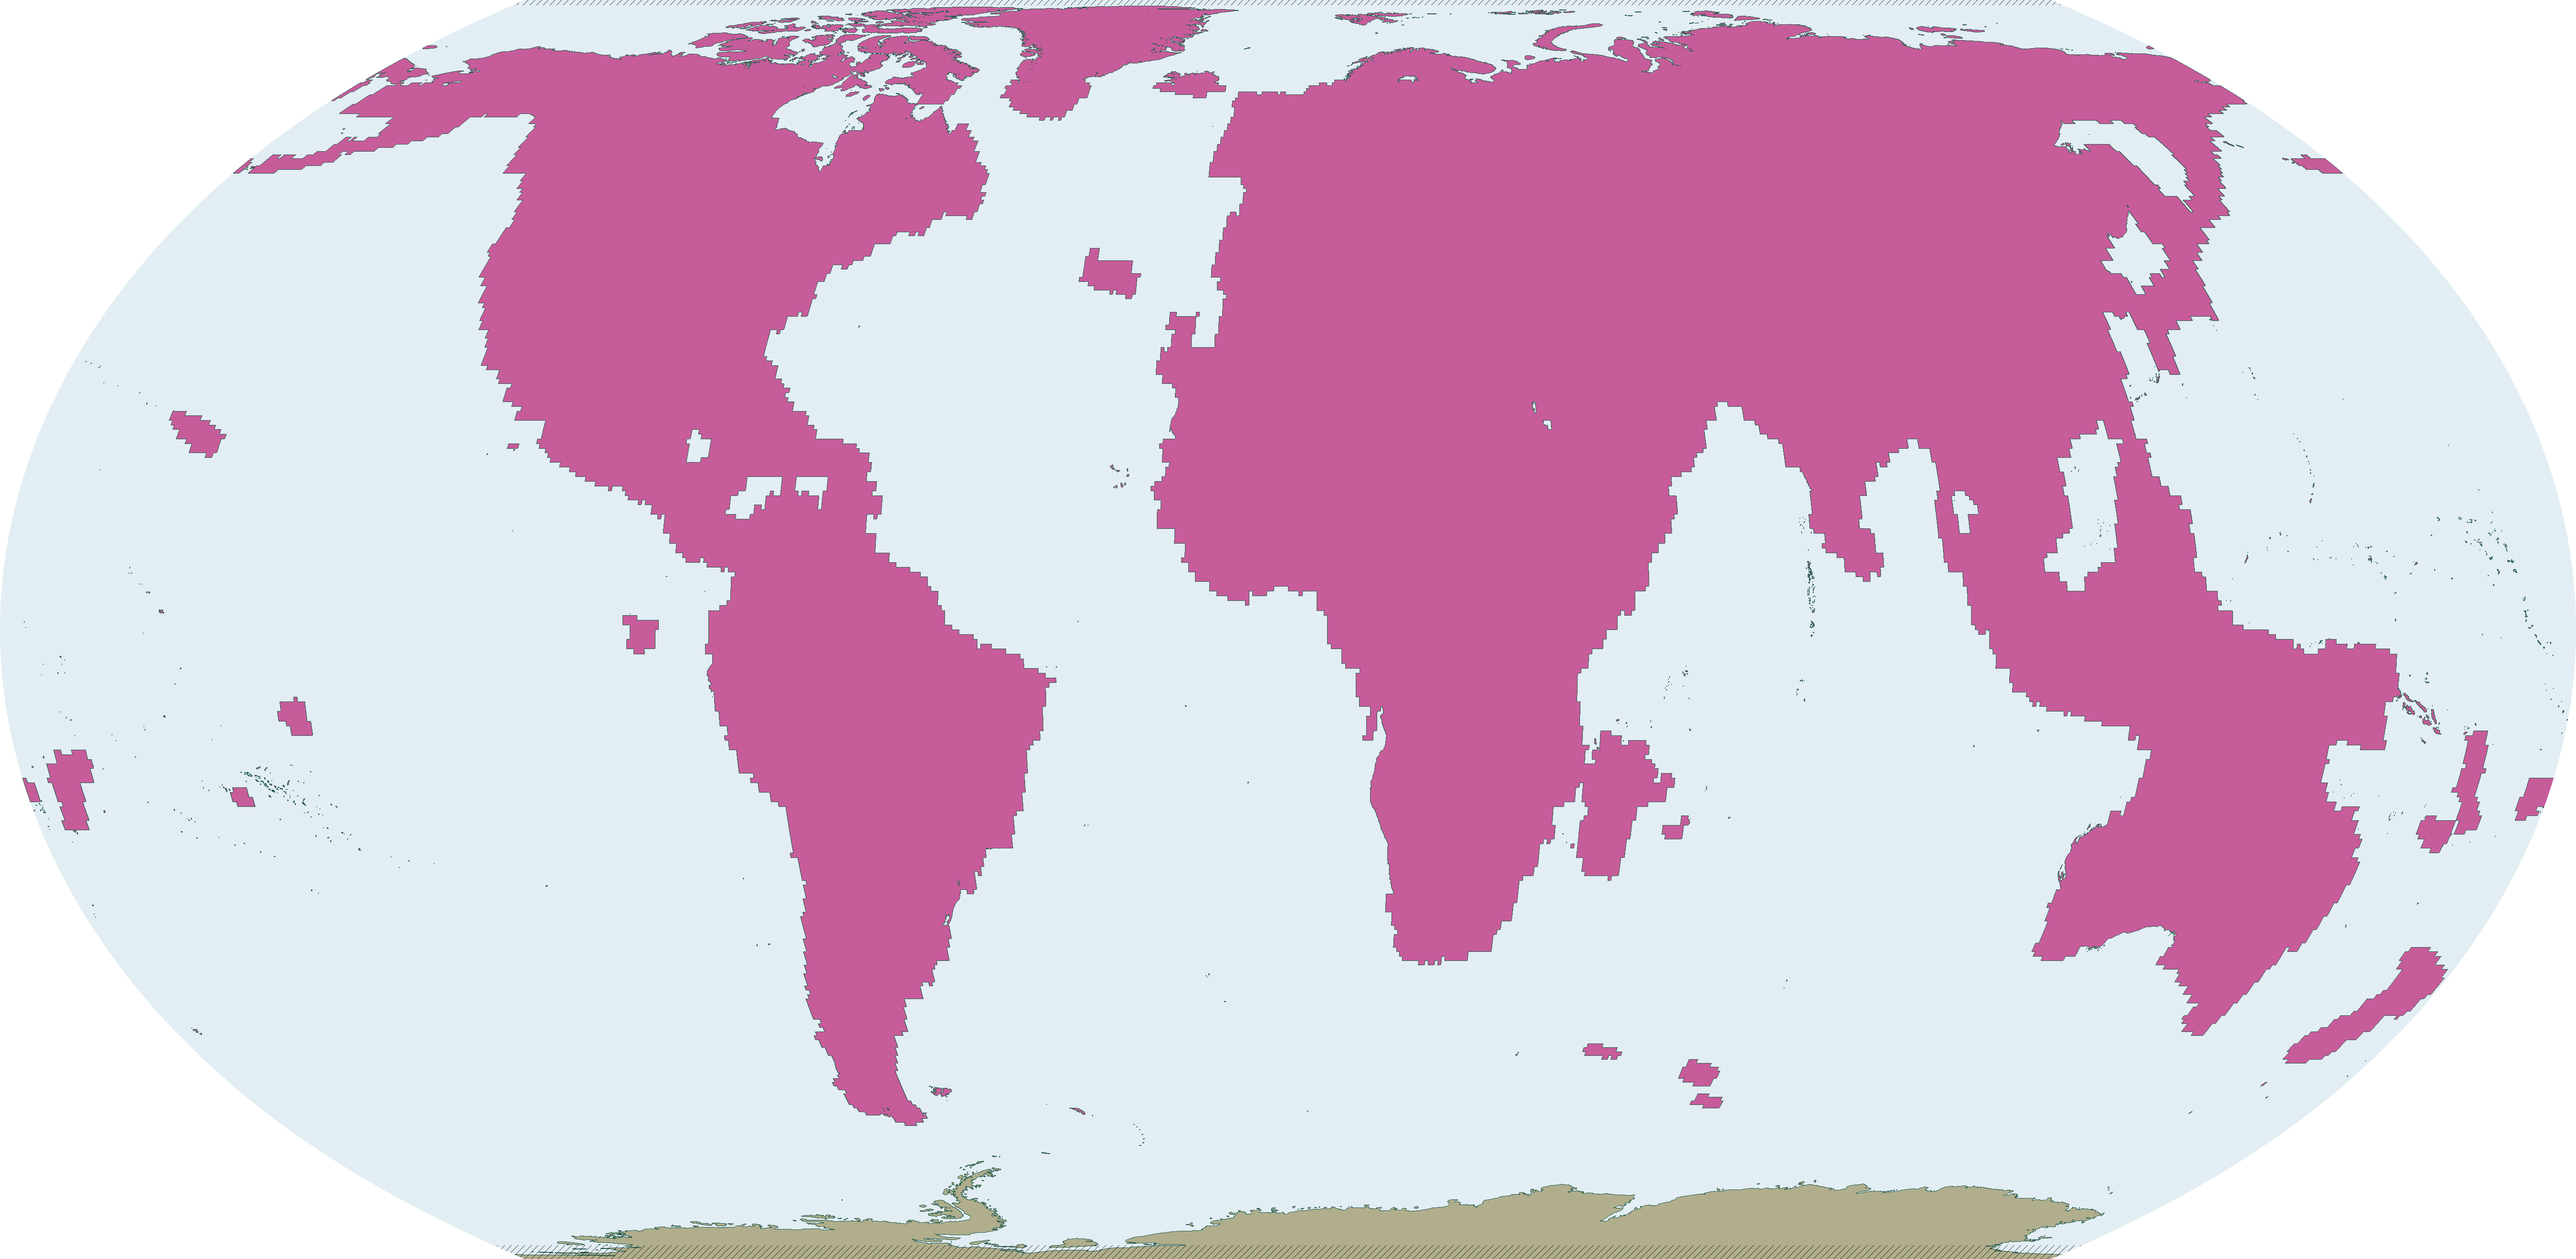
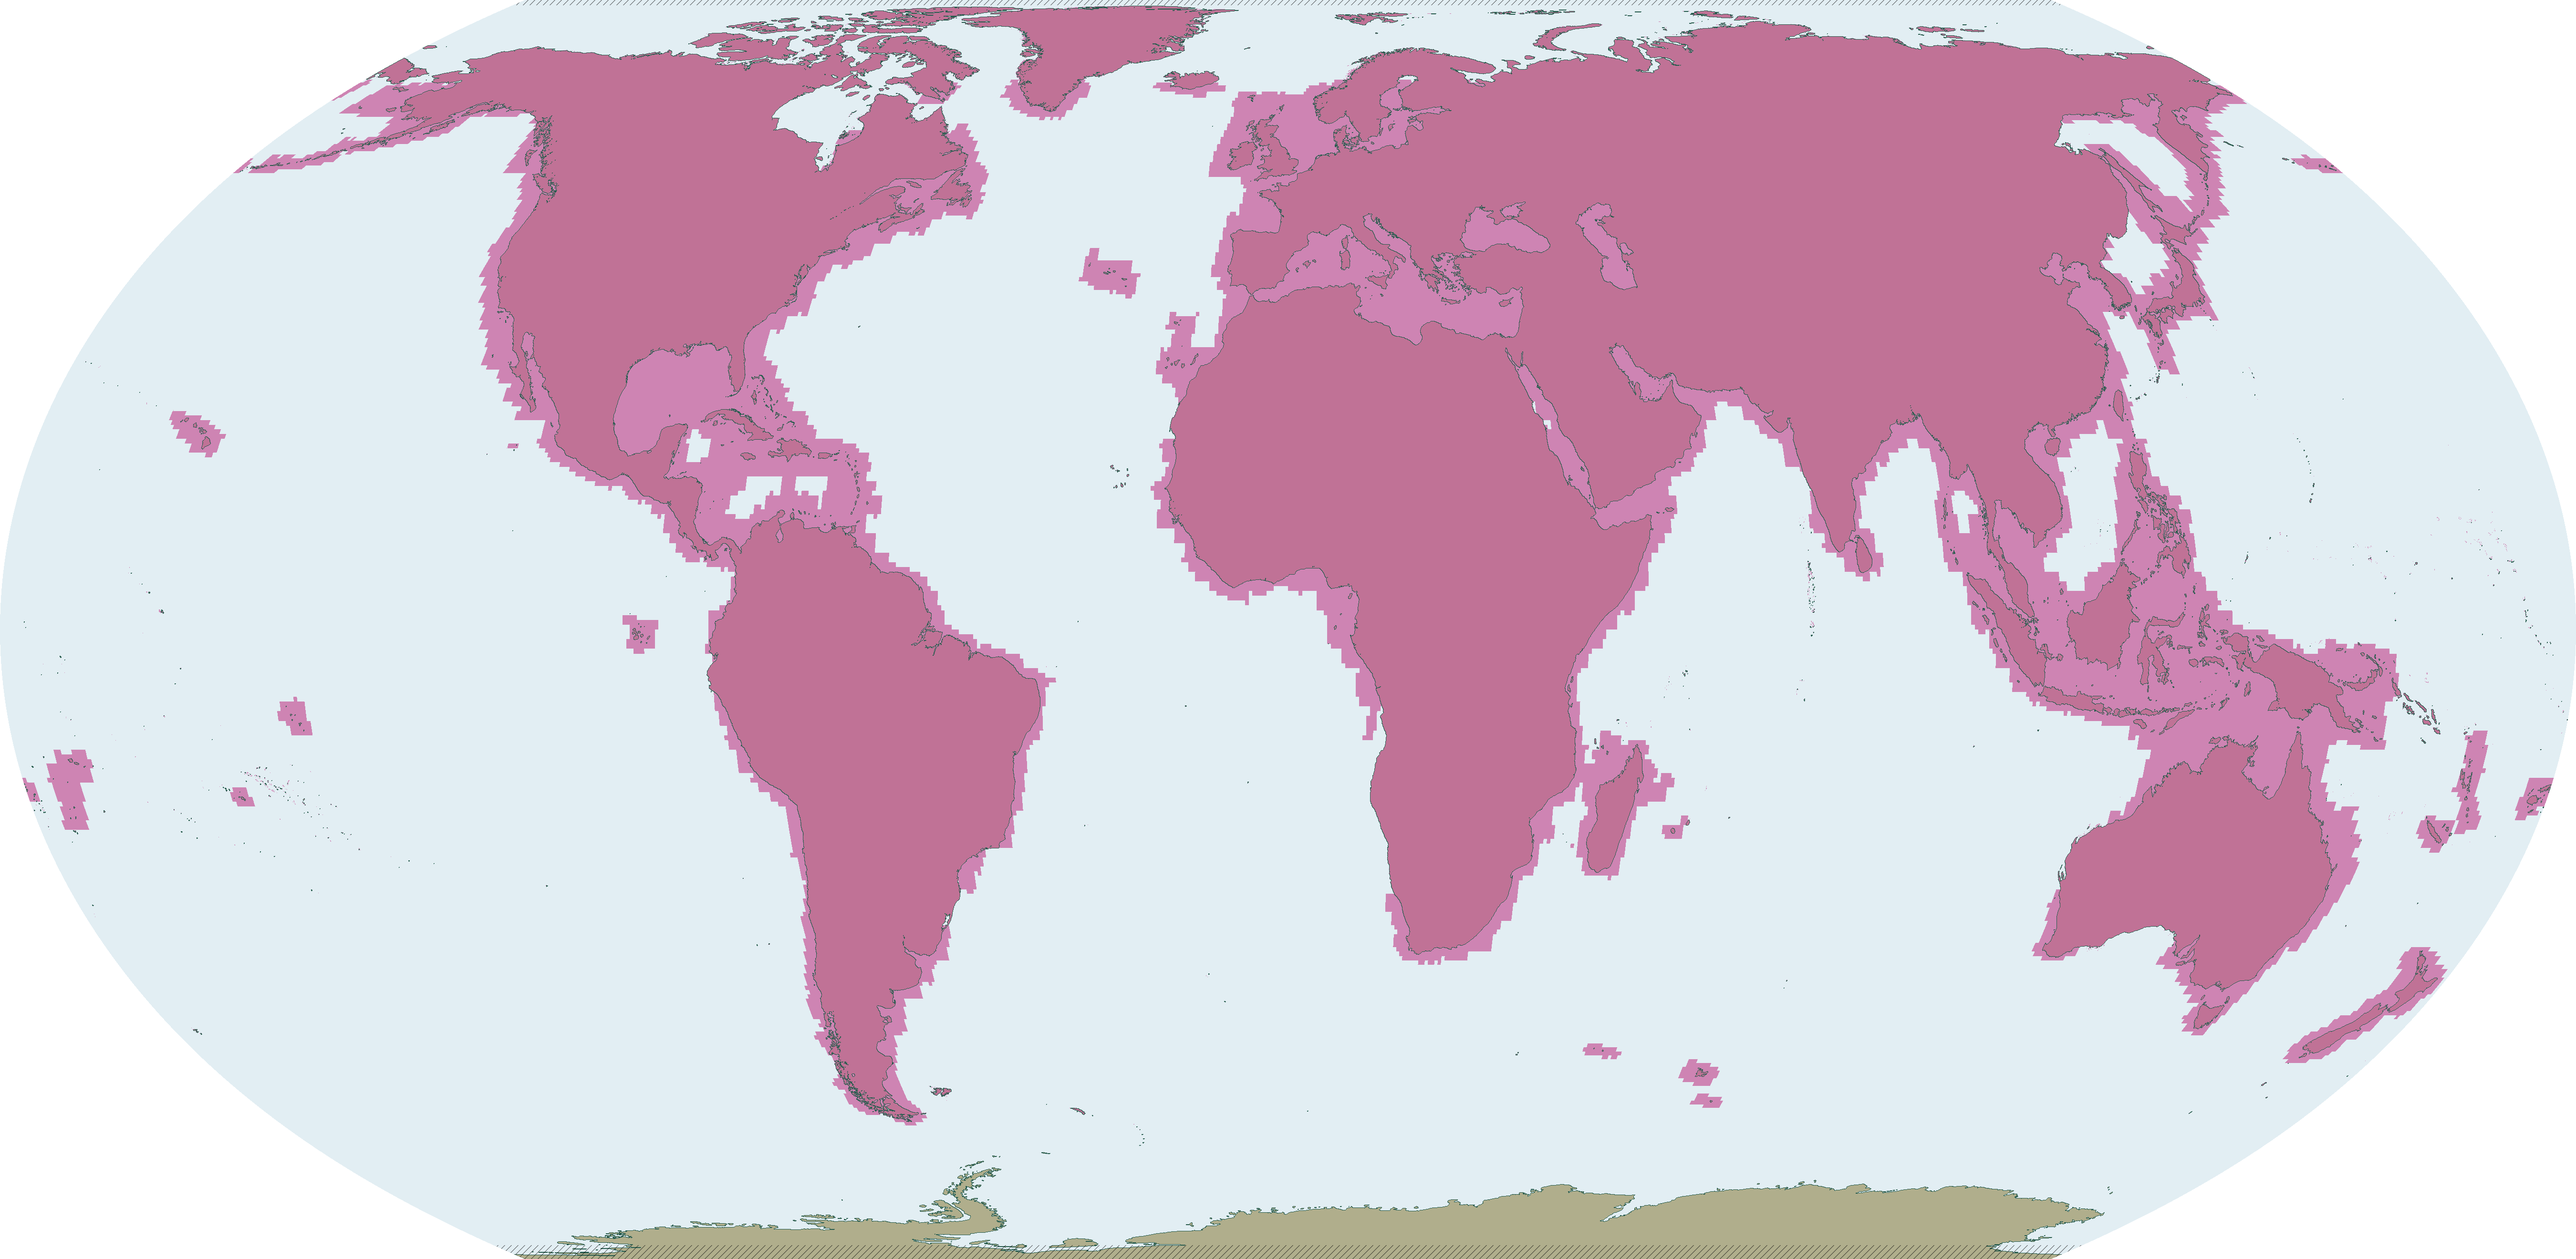
Blend the coverage overlay so the continents read through

diff --git a/rslp/large_scale_embeddings/tools/render_coverage_world.py b/rslp/large_scale_embeddings/tools/render_coverage_world.py
@@ -30,8 +30,14 @@ SRC_W, SRC_H = int(360 / SRC_RES), int(180 / SRC_RES)
 # Output canvas. Equal Earth is about 2.05:1, so this keeps pixels near square.
 DW, DH = 5400, 2640
 
-WATER, LAND, COVERED = 0, 1, 2
-COL = {WATER: (226, 238, 243), LAND: (176, 174, 140), COVERED: (199, 92, 155)}
+# Coverage is carried as a separate bit from land, not as a third class, so the
+# overlay can be blended over whichever basemap colour is underneath.
+WATER, LAND, WATER_COV, LAND_COV = 0, 1, 2, 3
+BASE = {WATER: (226, 238, 243), LAND: (176, 174, 140)}
+COVER = (199, 92, 155)
+# Below 1 so the continents read through the overlay: the figure has to show both what
+# is covered and what shape the land is, and a solid fill loses the second.
+COVER_ALPHA = 0.72
 COAST = (40, 92, 78)
 # UTM is defined from 80S to 84N. Outside that there is no zone to tile, so those bands
 # are hatched rather than left looking merely uncovered.
@@ -89,7 +95,7 @@ def covered_grid() -> npt.NDArray[np.bool_]:
 def main() -> None:
     """Build the figure and write it to OUT."""
     cat = np.where(land_grid(), LAND, WATER).astype(np.uint8)
-    cat[covered_grid()] = COVERED
+    cat[covered_grid()] += WATER_COV
 
     ee = pyproj.CRS.from_epsg(8857)
     fwd = pyproj.Transformer.from_crs("EPSG:4326", ee, always_xy=True)
@@ -126,14 +132,19 @@ def main() -> None:
     )
 
     rgba = np.zeros((DH, DW, 4), np.uint8)
-    for v, c in COL.items():
-        sel = dst == v
-        rgba[sel, 0], rgba[sel, 1], rgba[sel, 2], rgba[sel, 3] = c[0], c[1], c[2], 255
+    base = np.zeros((DH, DW, 3), np.float32)
+    for v, c in BASE.items():
+        base[(dst == v) | (dst == v + WATER_COV)] = c
+    out = base.copy()
+    cov = dst >= WATER_COV
+    out[cov] = base[cov] * (1 - COVER_ALPHA) + np.array(COVER, np.float32) * COVER_ALPHA
+    rgba[..., :3] = out.astype(np.uint8)
+    rgba[..., 3] = 255
     rgba[~inside, 3] = 0
 
     # Coastline, taken as the edge of the land/covered classes so no separate border
     # file is needed. A warped 1px line would break into dashes, hence drawing it here.
-    solid = (dst != WATER) & inside
+    solid = ((dst == LAND) | (dst == LAND_COV)) & inside
     edge = solid ^ np.pad(solid, ((0, 0), (1, 0)))[:, :-1]
     edge |= solid ^ np.pad(solid, ((1, 0), (0, 0)))[:-1, :]
     rgba[edge & inside, :3] = COAST
@@ -143,7 +154,7 @@ def main() -> None:
     rgba[hatch, :3] = (rgba[hatch, :3] * 0.55).astype(np.uint8)
 
     Image.fromarray(rgba, "RGBA").save(OUT, optimize=True)
-    south = la[(dst == COVERED) & inside].min()
+    south = la[(dst >= WATER_COV) & inside].min()
     print(f"wrote {OUT}  southernmost covered lat {south:.2f}")
 
 
